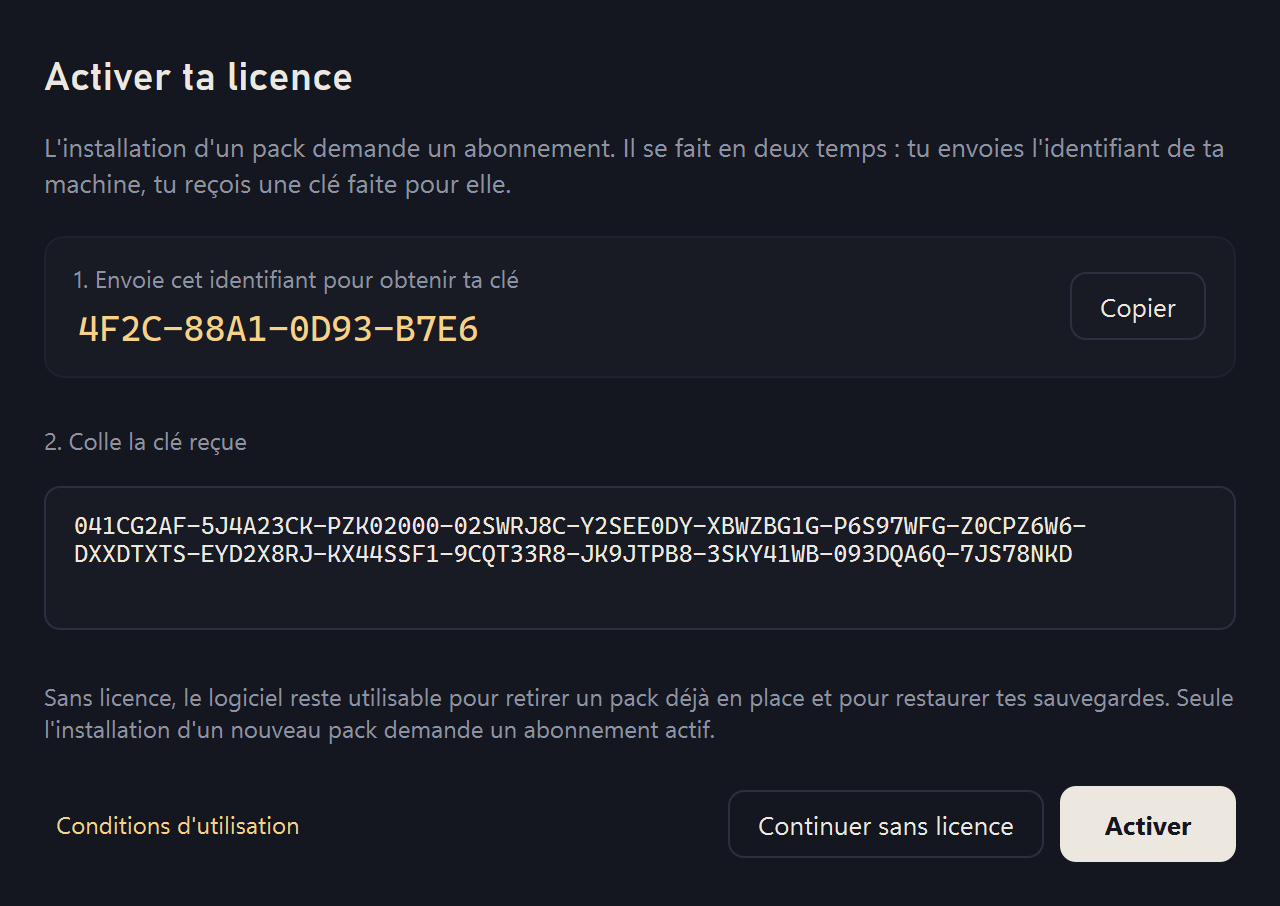
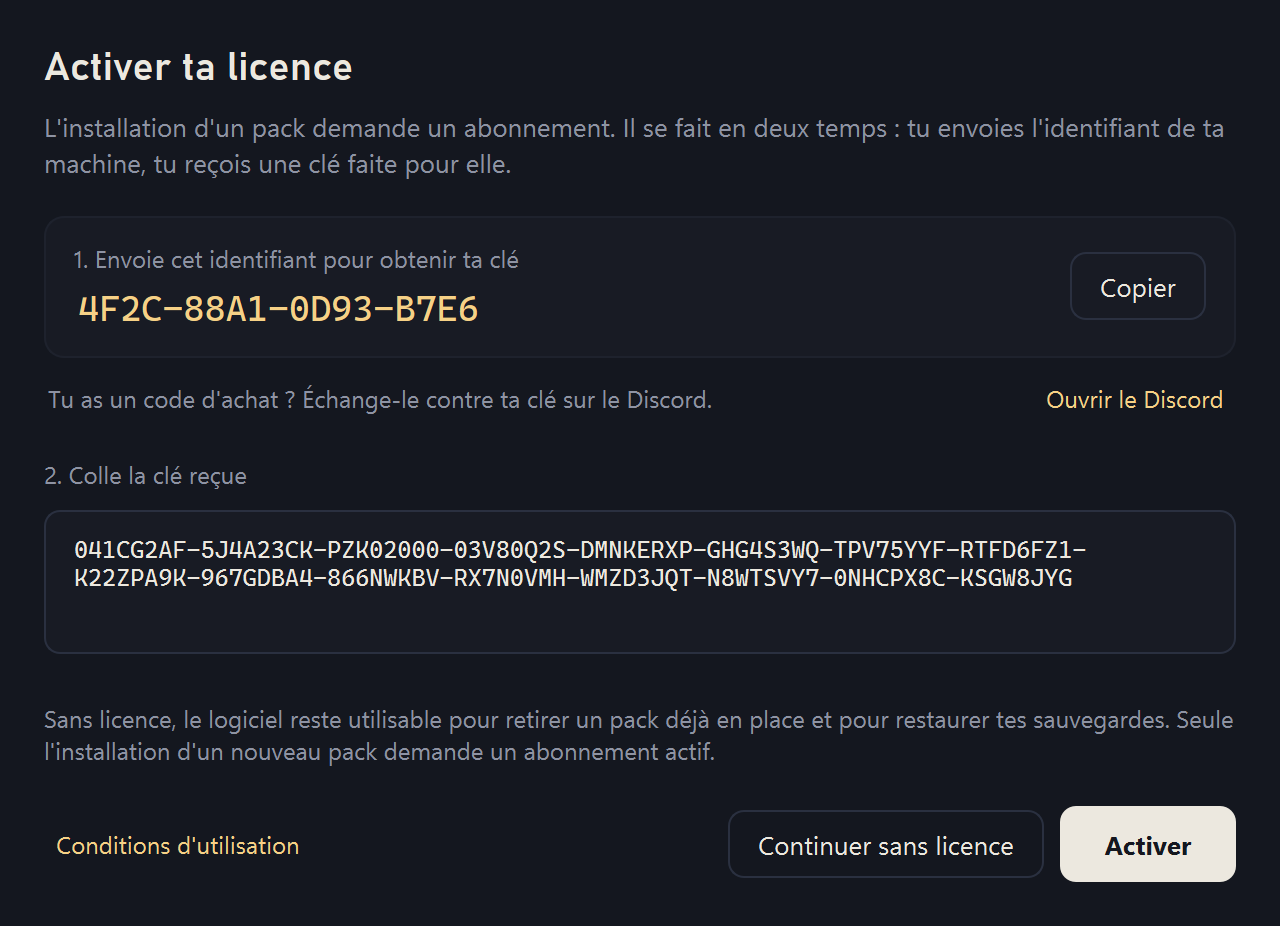
Page à jour pour la 0.8.2
Captures refaites en 0.8.2 : la fenêtre d'activation montre le lien vers
le Discord. Une clé obtenue sur Discord demande la 0.8.2 ou plus récente,
et l'exemple de vérification du fichier porte sur l'installateur 0.8.2.

diff --git a/README.md b/README.md
@@ -87,7 +87,8 @@ L'installation de packs demande un abonnement. Au premier lancement, la fenêtre
 - **Tu as reçu un code d'achat** (`XXXX-XXXX-XXXX-XXXX`) : sur
   [le serveur Discord Aestas Studio](https://discord.gg/bhseMPZqn8), clique sur **Obtenir ma licence** (ou tape `/licence`), puis indique ton code et ton identifiant. Ta
   clé arrive aussitôt, avec une copie en message privé. Tu l'as perdue ? Refais la même demande avec
-  le même code : tu retrouves la même clé.
+  le même code : tu retrouves la même clé. Il faut la version 0.8.2 ou plus récente : si le logiciel
+  est déjà installé, il s'est mis à jour tout seul.
 - **Sinon**, envoie ton identifiant à AestasFR par le canal où tu achètes ta licence : tu recevras une
   clé faite pour ta machine.
 
@@ -116,7 +117,7 @@ Chaque version publie l'empreinte SHA-256 de son installateur dans ses notes de 
 comparer, dans PowerShell :
 
 ```
-Get-FileHash .\FiveMPackInstaller-Setup-0.8.1.exe -Algorithm SHA256
+Get-FileHash .\FiveMPackInstaller-Setup-0.8.2.exe -Algorithm SHA256
 ```
 
 ---
